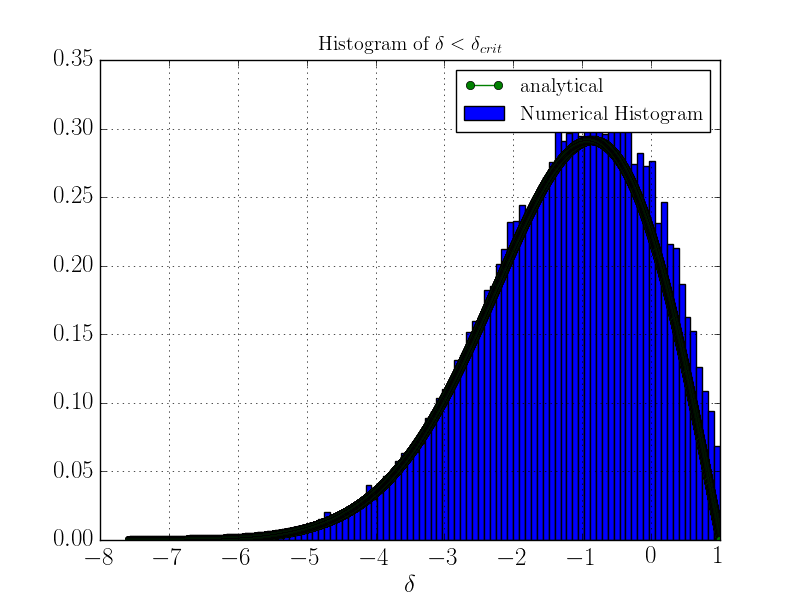
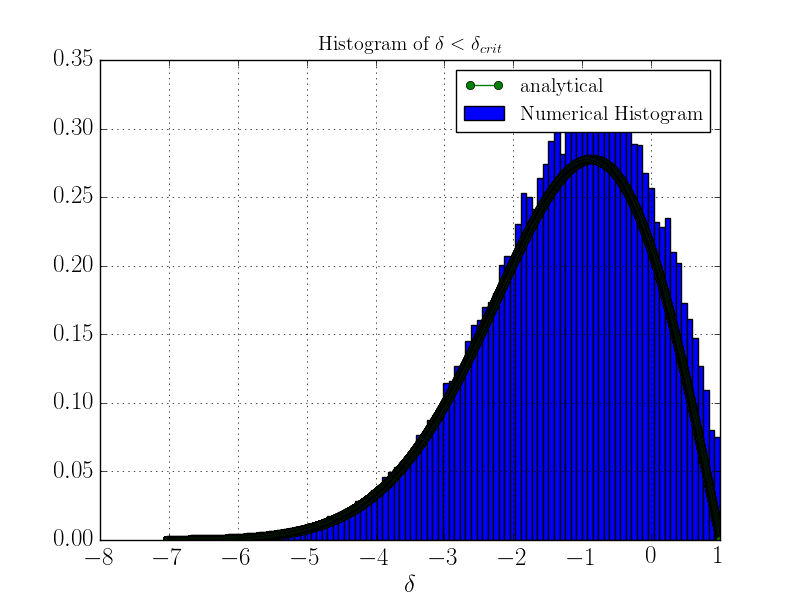
Kinda finished exercise 2, guessed scale factor

Changed region(s): [[0.3438, 0.21, 0.9062, 0.9], [0.1562, 0.87, 0.2188, 0.9]]

diff --git a/Project/exercise2.py b/Project/exercise2.py
@@ -63,7 +63,7 @@ plt.plot(delta_analytic, P,'-o')
 plt.grid('on')
 plt.xlabel(r'$\delta$', size=18)
 plt.legend(['analytical','Numerical Histogram'])
-
+plt.savefig('lastdeltahist')
 plt.show()
 
 # For elements crossing critical delta
@@ -73,7 +73,7 @@ delta_analytic = np.linspace(min(delta_below_crit),max(delta_below_crit),N)
 Pnc = 1.0/np.sqrt(2.0*np.pi*newsig(Sc))*(np.exp(-delta_analytic**2/(2.0*newsig(Sc)))-np.exp(-(2.0 - delta_analytic)**2/(2*newsig(Sc))))
 
 #Normalizing
-normPnc = Pnc*2.1
+normPnc = Pnc*2.
 
 
 plt.hist(delta_below_crit, bins = 100, normed = True)
